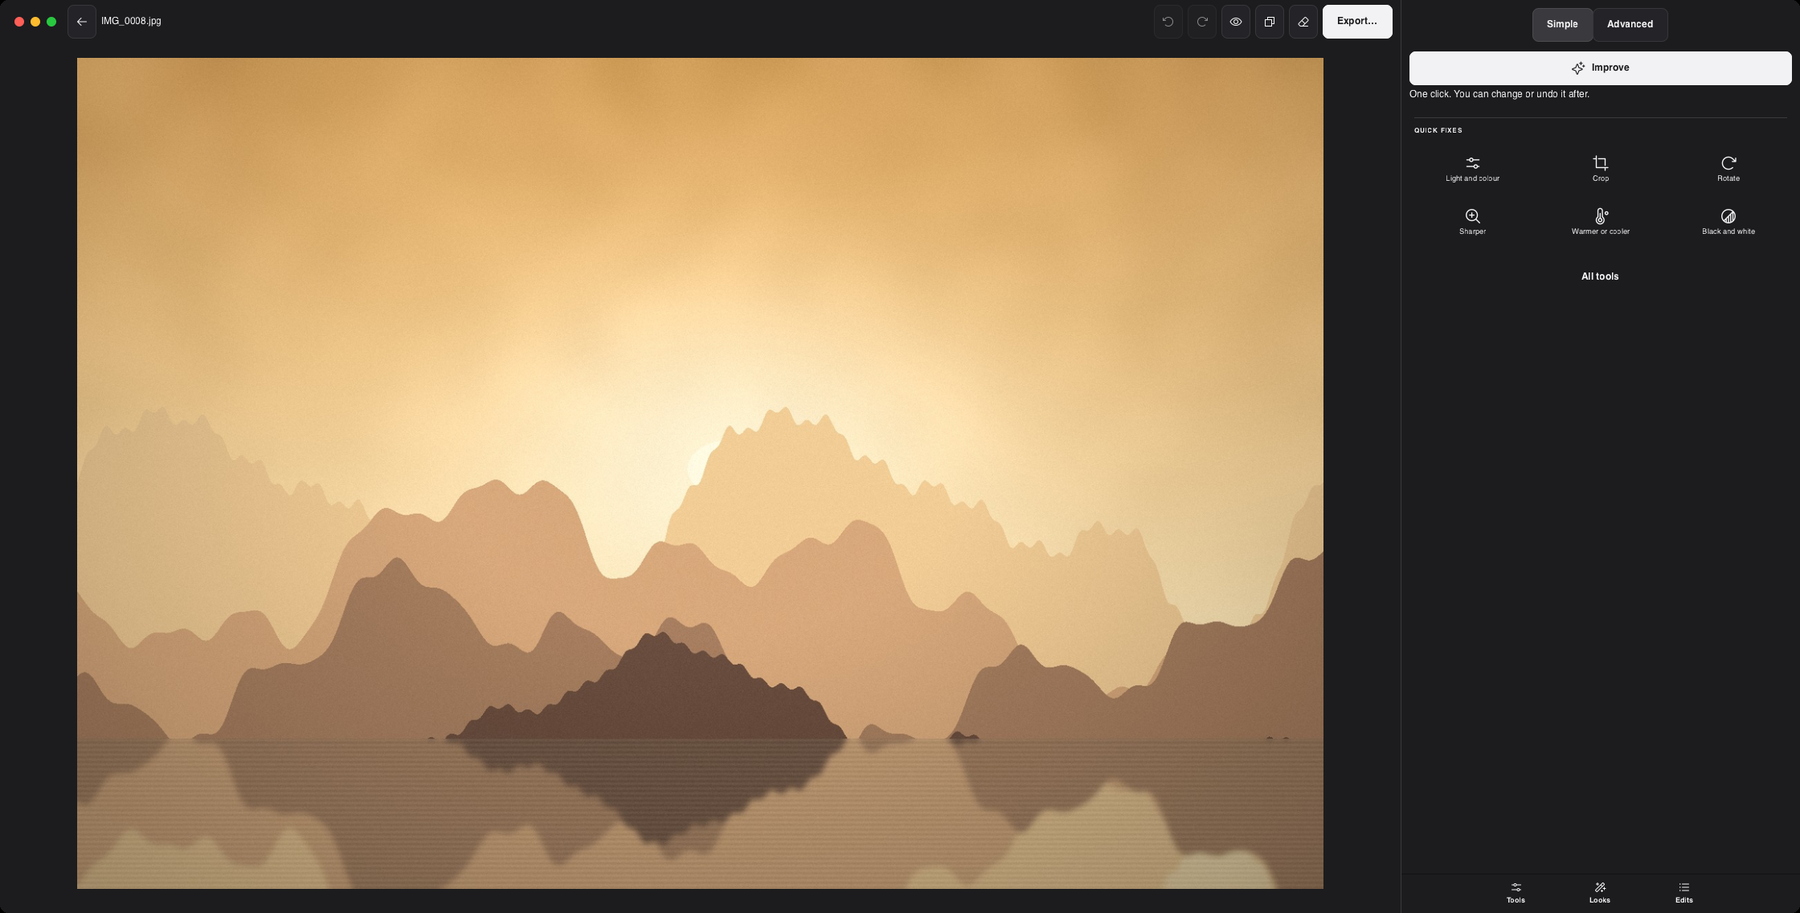
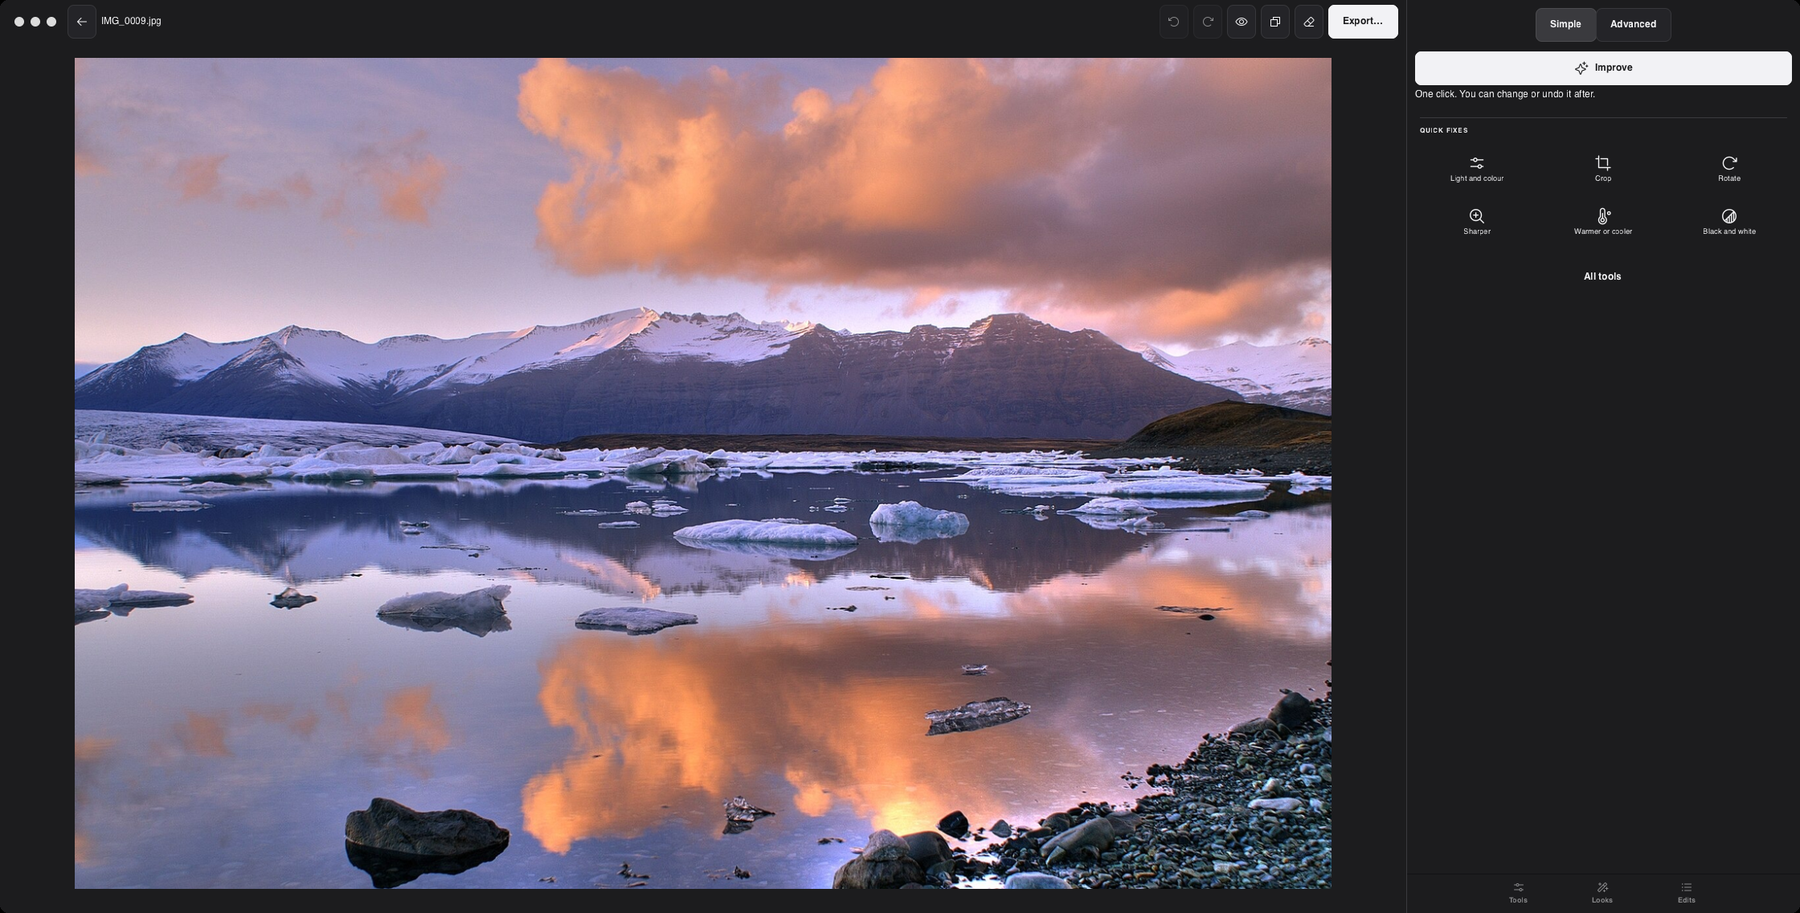
Screenshots with real photos: library, photo editor and video editor, with credits

diff --git a/docs/index.html b/docs/index.html
@@ -396,7 +396,7 @@ details.credits{width:100%;margin-top:18px;font-size:13px;color:var(--mute)}deta
     <span>© Vezzu Studio · <span class="l en">Piklin is free for any use.</span><span class="l es">Piklin es gratis para cualquier uso.</span> <a href="https://github.com/vezzulab/Piklin/blob/main/LICENSE" style="margin-left:0"><span class="l en">License</span><span class="l es">Licencia</span></a></span>
     <span><a href="https://github.com/vezzulab/Piklin">GitHub</a><a href="https://github.com/vezzulab/Piklin/releases">Releases</a><a href="https://ko-fi.com/vezzustudio"><span class="l en">Support on Ko-fi</span><span class="l es">Apoya en Ko-fi</span></a></span>
   </div>
-<div class="wrap"><details class="credits"><summary><span class="l en">Photo credits</span><span class="l es">Créditos de las fotos</span></summary><p><span class="l en">The example photos in the search demo come from Wikimedia Commons, under the licenses shown.</span><span class="l es">Las fotos de ejemplo de la demostración de búsqueda vienen de Wikimedia Commons, con las licencias indicadas.</span></p><ol><li><a href="https://commons.wikimedia.org/wiki/File:Miami_Skyline_(46732423931).jpg" rel="noopener">Miami Skyline (46732423931).jpg</a> · Joe deSousa · CC0</li><li><a href="https://commons.wikimedia.org/wiki/File:Miami,_Florida_skyline.jpg" rel="noopener">Miami, Florida skyline.jpg</a> · Wilfredor · CC0</li><li><a href="https://commons.wikimedia.org/wiki/File:Miami_Beach_-_Ocean_Drive_(2023).jpg" rel="noopener">Miami Beach - Ocean Drive (2023).jpg</a> · P. Hughes · CC BY 4.0</li><li><a href="https://commons.wikimedia.org/wiki/File:April_7,_2015_-_Wynwood_Miami_-_03.jpg" rel="noopener">April 7, 2015 - Wynwood Miami - 03.jpg</a> · osseous · CC BY 2.0</li><li><a href="https://commons.wikimedia.org/wiki/File:April_7,_2015_-_Wynwood_Miami_-_02.jpg" rel="noopener">April 7, 2015 - Wynwood Miami - 02.jpg</a> · osseous · CC BY 2.0</li><li><a href="https://commons.wikimedia.org/wiki/File:Downtown_Miami_At_Sunset_Florida_United_States_Cityscape_Photography_(192263465).jpeg" rel="noopener">Downtown Miami At Sunset Florida United States Cityscape Photography (192263465).jpeg</a> · Giuseppe Milo · CC BY 3.0</li><li><a href="https://commons.wikimedia.org/wiki/File:Walt_Disney_World_Epcot_Spaceship_Earth_(50098996988).jpg" rel="noopener">Walt Disney World Epcot Spaceship Earth (50098996988).jpg</a> · Anthony Quintano from Westminster, United States · CC BY 2.0</li><li><a href="https://commons.wikimedia.org/wiki/File:1_epcot_spaceship_earth_2010a.JPG" rel="noopener">1 epcot spaceship earth 2010a.JPG</a> · chensiyuan · Public domain</li><li><a href="https://commons.wikimedia.org/wiki/File:Tree_of_Life_at_Animal_Kingdom,_Discovery_Island,_Disney%27s_Animal_Kingdom,_June_2006_-_ThrillZing.jpg" rel="noopener">Tree of Life at Animal Kingdom, Discovery Island, Disney&#x27;s Animal Kingdom, June 2006 - ThrillZing.jpg</a> · ThrillZing · CC BY 4.0</li><li><a href="https://commons.wikimedia.org/wiki/File:Tree_of_Life_iconic_carved_tree_structure,_Disney%27s_Animal_Kingdom,_June_2006_-_ThrillZing.jpg" rel="noopener">Tree of Life iconic carved tree structure, Disney&#x27;s Animal Kingdom, June 2006 - ThrillZing.jpg</a> · ThrillZing · CC BY 4.0</li><li><a href="https://commons.wikimedia.org/wiki/File:Disney-MGM_Studios_entrance_sign_with_towers_and_flags,_Disney%27s_Hollywood_Studios,_June_2006_-_ThrillZing.jpg" rel="noopener">Disney-MGM Studios entrance sign with towers and flags, Disney&#x27;s Hollywood Studios, June 2006 - ThrillZing.jpg</a> · ThrillZing · CC BY 4.0</li><li><a href="https://commons.wikimedia.org/wiki/File:Disney_World,_Orlando_Florida.jpg" rel="noopener">Disney World, Orlando Florida.jpg</a> · Juliancolton · Public domain</li></ol></details></div>
+<div class="wrap"><details class="credits"><summary><span class="l en">Photo credits</span><span class="l es">Créditos de las fotos</span></summary><p><span class="l en">The example photos in the search demo come from Wikimedia Commons, under the licenses shown.</span><span class="l es">Las fotos de ejemplo de la demostración de búsqueda vienen de Wikimedia Commons, con las licencias indicadas.</span></p><ol><li><a href="https://commons.wikimedia.org/wiki/File:Miami_Skyline_(46732423931).jpg" rel="noopener">Miami Skyline (46732423931).jpg</a> · Joe deSousa · CC0</li><li><a href="https://commons.wikimedia.org/wiki/File:Miami,_Florida_skyline.jpg" rel="noopener">Miami, Florida skyline.jpg</a> · Wilfredor · CC0</li><li><a href="https://commons.wikimedia.org/wiki/File:Miami_Beach_-_Ocean_Drive_(2023).jpg" rel="noopener">Miami Beach - Ocean Drive (2023).jpg</a> · P. Hughes · CC BY 4.0</li><li><a href="https://commons.wikimedia.org/wiki/File:April_7,_2015_-_Wynwood_Miami_-_03.jpg" rel="noopener">April 7, 2015 - Wynwood Miami - 03.jpg</a> · osseous · CC BY 2.0</li><li><a href="https://commons.wikimedia.org/wiki/File:April_7,_2015_-_Wynwood_Miami_-_02.jpg" rel="noopener">April 7, 2015 - Wynwood Miami - 02.jpg</a> · osseous · CC BY 2.0</li><li><a href="https://commons.wikimedia.org/wiki/File:Downtown_Miami_At_Sunset_Florida_United_States_Cityscape_Photography_(192263465).jpeg" rel="noopener">Downtown Miami At Sunset Florida United States Cityscape Photography (192263465).jpeg</a> · Giuseppe Milo · CC BY 3.0</li><li><a href="https://commons.wikimedia.org/wiki/File:Walt_Disney_World_Epcot_Spaceship_Earth_(50098996988).jpg" rel="noopener">Walt Disney World Epcot Spaceship Earth (50098996988).jpg</a> · Anthony Quintano from Westminster, United States · CC BY 2.0</li><li><a href="https://commons.wikimedia.org/wiki/File:1_epcot_spaceship_earth_2010a.JPG" rel="noopener">1 epcot spaceship earth 2010a.JPG</a> · chensiyuan · Public domain</li><li><a href="https://commons.wikimedia.org/wiki/File:Tree_of_Life_at_Animal_Kingdom,_Discovery_Island,_Disney%27s_Animal_Kingdom,_June_2006_-_ThrillZing.jpg" rel="noopener">Tree of Life at Animal Kingdom, Discovery Island, Disney&#x27;s Animal Kingdom, June 2006 - ThrillZing.jpg</a> · ThrillZing · CC BY 4.0</li><li><a href="https://commons.wikimedia.org/wiki/File:Tree_of_Life_iconic_carved_tree_structure,_Disney%27s_Animal_Kingdom,_June_2006_-_ThrillZing.jpg" rel="noopener">Tree of Life iconic carved tree structure, Disney&#x27;s Animal Kingdom, June 2006 - ThrillZing.jpg</a> · ThrillZing · CC BY 4.0</li><li><a href="https://commons.wikimedia.org/wiki/File:Disney-MGM_Studios_entrance_sign_with_towers_and_flags,_Disney%27s_Hollywood_Studios,_June_2006_-_ThrillZing.jpg" rel="noopener">Disney-MGM Studios entrance sign with towers and flags, Disney&#x27;s Hollywood Studios, June 2006 - ThrillZing.jpg</a> · ThrillZing · CC BY 4.0</li><li><a href="https://commons.wikimedia.org/wiki/File:Disney_World,_Orlando_Florida.jpg" rel="noopener">Disney World, Orlando Florida.jpg</a> · Juliancolton · Public domain</li></ol><p style="margin-top:14px"><span class="l en">The photos in the app screenshots, also from Wikimedia Commons:</span><span class="l es">Las fotos de las capturas de la aplicación, también de Wikimedia Commons:</span></p><ol><li><a href="https://commons.wikimedia.org/wiki/File:Utah_Dunes_Landscape_-_West_Desert_District.jpg" rel="noopener">Utah Dunes Landscape - West Desert District.jpg</a> · Bureau of Land Management - Utah/Bob Wick · Public domain</li><li><a href="https://commons.wikimedia.org/wiki/File:Zagedan_mountain_lakes_before_sunset,_Caucasus_Mountains,_Karachay-Cherkessia.jpg" rel="noopener">Zagedan mountain lakes before sunset, Caucasus Mountains, Karachay-Cherkessia.jpg</a> · Vyacheslav Argenberg · CC BY 4.0</li><li><a href="https://commons.wikimedia.org/wiki/File:Juan_Griego_Sunset.jpg" rel="noopener">Juan Griego Sunset.jpg</a> · Wilfredor · CC0</li><li><a href="https://commons.wikimedia.org/wiki/File:Koh_Mak_(island),_Thailand,_Sunset_on_the_beach_with_palms.jpg" rel="noopener">Koh Mak (island), Thailand, Sunset on the beach with palms.jpg</a> · Vyacheslav Argenberg · CC BY 4.0</li><li><a href="https://commons.wikimedia.org/wiki/File:Sunset_on_the_Aresquiers_beach.jpg" rel="noopener">Sunset on the Aresquiers beach.jpg</a> · Christian Ferrer · CC BY 4.0</li><li><a href="https://commons.wikimedia.org/wiki/File:The_Carlyle_(neon_sign),_Miami_Beach,_east_view_up,_2018-08-21.jpg" rel="noopener">The Carlyle (neon sign), Miami Beach, east view up, 2018-08-21.jpg</a> · Photograph:  Radomianin · Public domain</li><li><a href="https://commons.wikimedia.org/wiki/File:Ergaki,_Buiba_Valley,_Western_Sayan_Mountains,_Krasnoyarsk_Krai,_Russia.jpg" rel="noopener">Ergaki, Buiba Valley, Western Sayan Mountains, Krasnoyarsk Krai, Russia.jpg</a> · Vyacheslav Argenberg · CC BY 4.0</li><li><a href="https://commons.wikimedia.org/wiki/File:Herbert_Lake_beim_Icefields_Parkway.jpg" rel="noopener">Herbert Lake beim Icefields Parkway.jpg</a> · Florian Fuchs · CC BY 3.0</li><li><a href="https://commons.wikimedia.org/wiki/File:Jokulsarlon_lake,_Iceland.jpg" rel="noopener">Jokulsarlon lake, Iceland.jpg</a> · Kenny Muir · CC BY 2.0</li><li><a href="https://commons.wikimedia.org/wiki/File:Lake_Kinney_mit_Mount_Whitehorn.jpg" rel="noopener">Lake Kinney mit Mount Whitehorn.jpg</a> · Florian Fuchs · CC BY 3.0</li><li><a href="https://commons.wikimedia.org/wiki/File:Receding_Fog_over_Lake_Altaussee.jpg" rel="noopener">Receding Fog over Lake Altaussee.jpg</a> · Bernd Thaller · CC BY 2.0</li><li><a href="https://commons.wikimedia.org/wiki/File:Zagedan_Lakes,_Mountain_cirque,_Caucasus_Mountains.jpg" rel="noopener">Zagedan Lakes, Mountain cirque, Caucasus Mountains.jpg</a> · Vyacheslav Argenberg · CC BY 4.0</li><li><a href="https://commons.wikimedia.org/wiki/File:Autumn_Forest_Wet_Bark.jpg" rel="noopener">Autumn Forest Wet Bark.jpg</a> · Martin Vorel · CC0</li><li><a href="https://commons.wikimedia.org/wiki/File:Chateau_Frontenac_illuminated_at_night_in_Quebec_City.jpg" rel="noopener">Chateau Frontenac illuminated at night in Quebec City.jpg</a> · Wilfredor · CC0</li><li><a href="https://commons.wikimedia.org/wiki/File:New-York-City-night-skyline-September-2014.jpg" rel="noopener">New-York-City-night-skyline-September-2014.jpg</a> · Acediscovery · CC BY 4.0</li><li><a href="https://commons.wikimedia.org/wiki/File:Price_Building_illuminated_at_night_in_Quebec_City.jpg" rel="noopener">Price Building illuminated at night in Quebec City.jpg</a> · Wilfredor · CC0</li><li><a href="https://commons.wikimedia.org/wiki/File:Saigon_skyline_night_view.jpg" rel="noopener">Saigon skyline night view.jpg</a> · Gurval Le Bouter · CC BY 2.0</li><li><a href="https://commons.wikimedia.org/wiki/File:Kirkjufell,_Iceland,_20240714_1631_0713.jpg" rel="noopener">Kirkjufell, Iceland, 20240714 1631 0713.jpg</a> · Jakub Hałun · CC BY 4.0</li><li><a href="https://commons.wikimedia.org/wiki/File:Seljalandsfoss_Waterfall,_Iceland,_20240720_1522_3138.jpg" rel="noopener">Seljalandsfoss Waterfall, Iceland, 20240720 1522 3138.jpg</a> · Jakub Hałun · CC BY 4.0</li><li><a href="https://commons.wikimedia.org/wiki/File:Koh_Mak_(island),_Thailand,_Palm_trees_on_the_beach.jpg" rel="noopener">Koh Mak (island), Thailand, Palm trees on the beach.jpg</a> · Vyacheslav Argenberg · CC BY 4.0</li><li><a href="https://commons.wikimedia.org/wiki/File:Koh_Mak_(island),_Thailand,_Palms_on_the_beach.jpg" rel="noopener">Koh Mak (island), Thailand, Palms on the beach.jpg</a> · Vyacheslav Argenberg · CC BY 4.0</li><li><a href="https://commons.wikimedia.org/wiki/File:Malapascua_(island),_Bounty_Beach_with_palms,_Philippines.jpg" rel="noopener">Malapascua (island), Bounty Beach with palms, Philippines.jpg</a> · Vyacheslav Argenberg · CC BY 4.0</li><li><a href="https://commons.wikimedia.org/wiki/File:Malapascua_(island),_Reclining_tropical_palm_trees,_Philippines.jpg" rel="noopener">Malapascua (island), Reclining tropical palm trees, Philippines.jpg</a> · Vyacheslav Argenberg · CC BY 4.0</li><li><a href="https://commons.wikimedia.org/wiki/File:Norway_-_Fjord_(37761819846).jpg" rel="noopener">Norway - Fjord (37761819846).jpg</a> · Thatcher Clay · CC BY 2.0</li><li><a href="https://commons.wikimedia.org/wiki/File:Norway_-_Fjord_light_(37810185651).jpg" rel="noopener">Norway - Fjord light (37810185651).jpg</a> · Thatcher Clay · CC BY 2.0</li><li><a href="https://commons.wikimedia.org/wiki/File:Yosemite_by_Carol_M._Highsmith.jpg" rel="noopener">Yosemite by Carol M. Highsmith.jpg</a> · Carol M. Highsmith · Public domain</li><li><a href="https://commons.wikimedia.org/wiki/File:Coast_of_Princeville_Kauai,_Hawaii_(45364662375).jpg" rel="noopener">Coast of Princeville Kauai, Hawaii (45364662375).jpg</a> · dronepicr · CC BY 2.0</li><li><a href="https://commons.wikimedia.org/wiki/File:Hawaii_Coast_2_(30550942941).jpg" rel="noopener">Hawaii Coast 2 (30550942941).jpg</a> · Tony Hisgett from Birmingham, UK · CC BY 2.0</li><li><a href="https://commons.wikimedia.org/wiki/File:Hawaiian_Coast_(45024598461).jpg" rel="noopener">Hawaiian Coast (45024598461).jpg</a> · Manfred Wallner · CC BY 2.0</li><li><a href="https://commons.wikimedia.org/wiki/File:Rocky_coast_of_Big_Island_in_Hawaii.jpg" rel="noopener">Rocky coast of Big Island in Hawaii.jpg</a> · Sergio Vassio · CC BY 2.0</li><li><a href="https://commons.wikimedia.org/wiki/File:Swiss_Alps,_Switzerland_(Unsplash).jpg" rel="noopener">Swiss Alps, Switzerland (Unsplash).jpg</a> · René Reichelt kaarl · CC0</li><li><a href="https://commons.wikimedia.org/wiki/File:Aerial_view_of_La_Sagrada_Familia,_Barcelona,_Spain_(51227006134).jpg" rel="noopener">Aerial view of La Sagrada Familia, Barcelona, Spain (51227006134).jpg</a> · dronepicr · CC BY 2.0</li></ol></details></div>
 </footer>
 
 <script>
